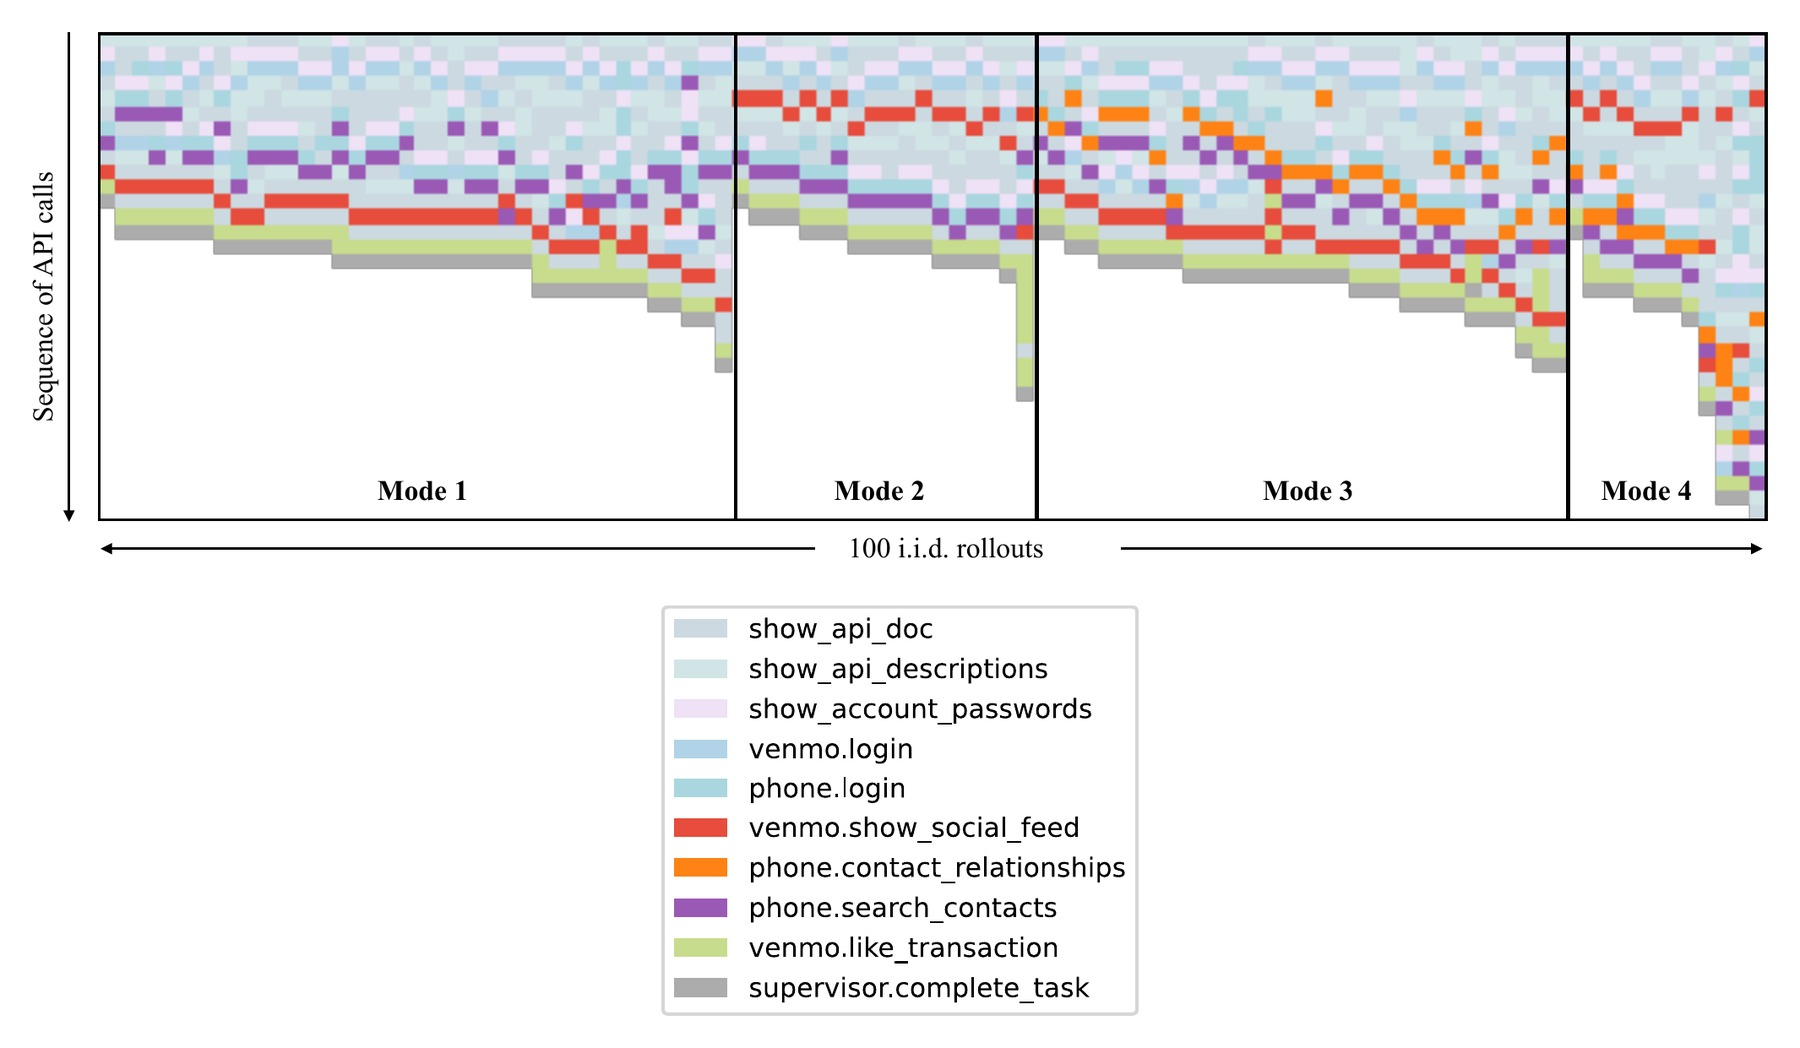
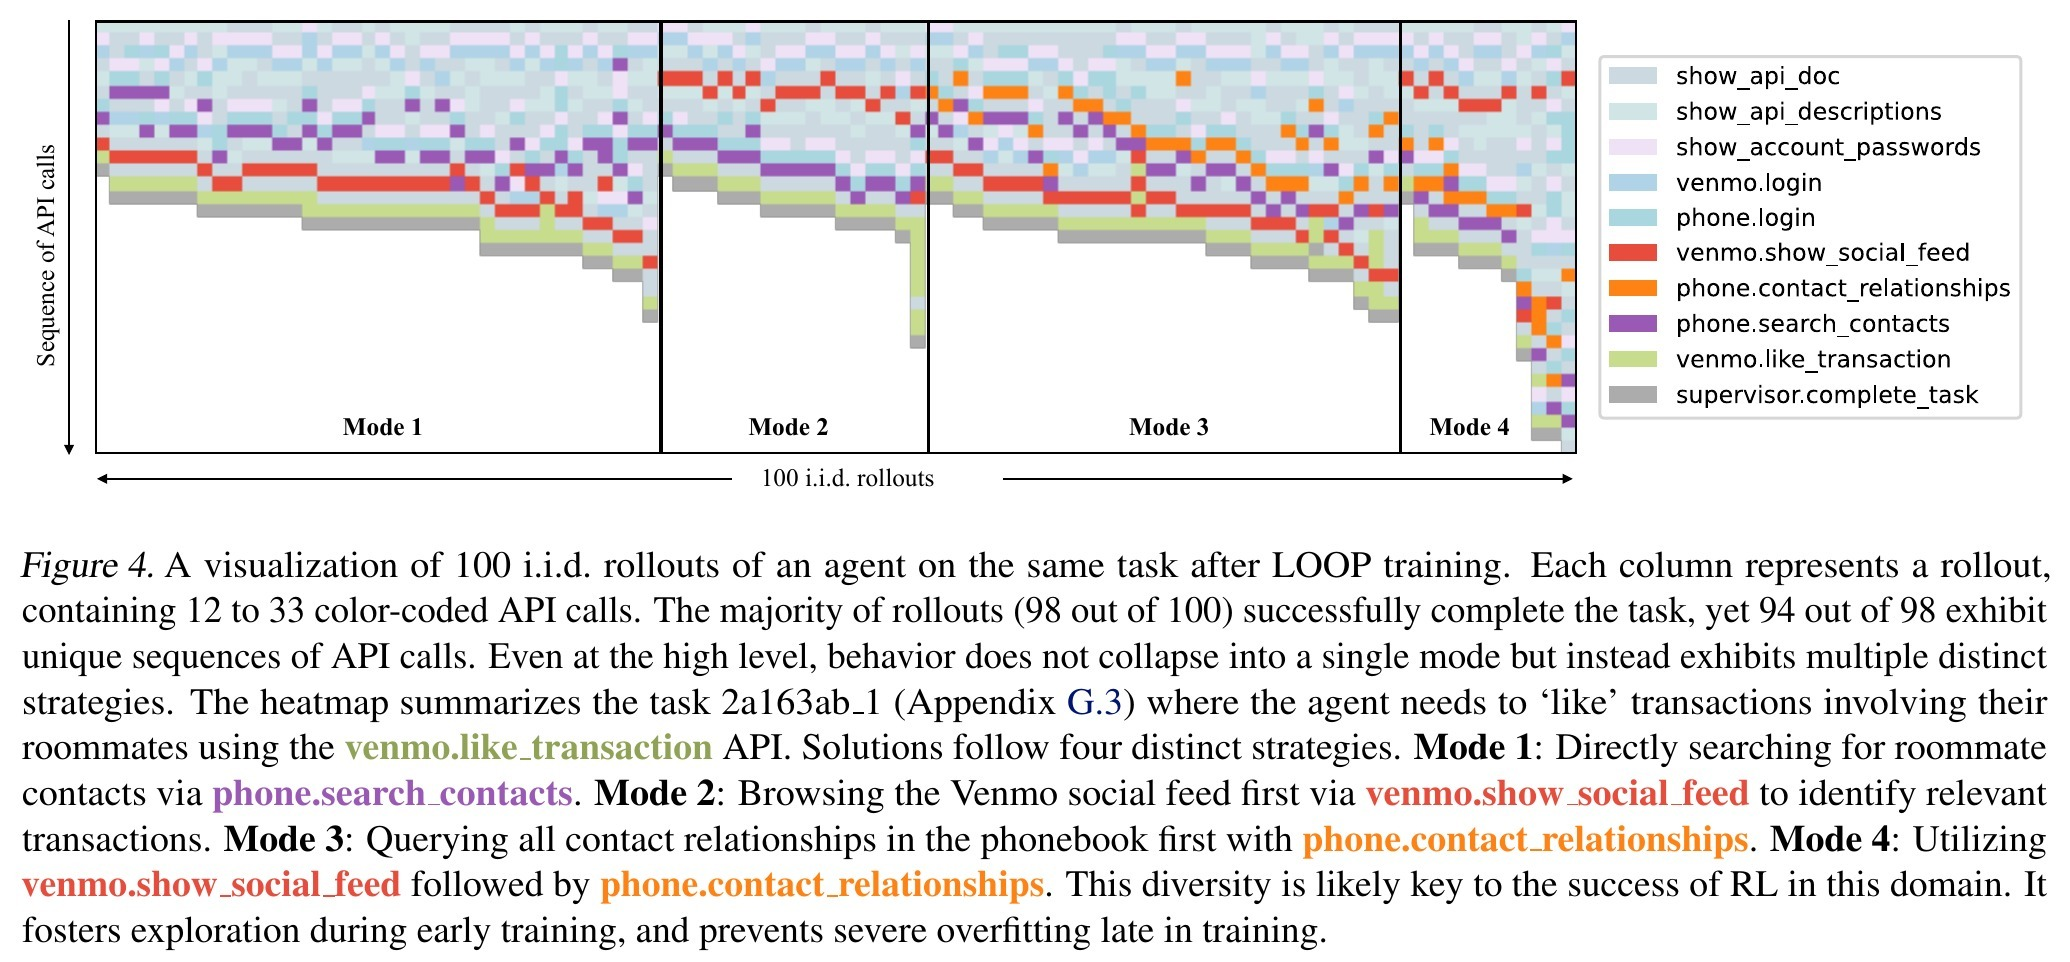
al-folio: figure thumbnails, GIFs/videos on Home at 75% width, DexPBT YouTube clip, LOOP caption on zoom, projects cards, bio edits

diff --git a/assets/css/main.scss b/assets/css/main.scss
@@ -202,11 +202,13 @@ ol.bibliography {
     margin-top: 0.2rem;
   }
 
+  // large GIFs/videos at ~75% of the column, centred (images are not recompressed)
   .pub-media {
     display: flex;
     gap: 12px;
     justify-content: center;
-    margin-top: 0.8rem;
+    width: 75%;
+    margin: 0.8rem auto 0;
 
     img,
     video {
@@ -312,6 +314,9 @@ ol.bibliography {
 @media (max-width: 576px) {
   .os-gallery {
     grid-template-columns: repeat(2, 1fr);
+  }
+  .pub .pub-media {
+    width: 100%;
   }
   .pub .pub-media-2 {
     flex-direction: column;
@@ -453,14 +458,6 @@ html[data-theme="dark"] .publications h2.bibliography {
   margin-bottom: 0.8rem;
 }
 
-// project cards: GitHub icon aligned with the card text
-.projects .card .github-icon {
-  padding-left: 1rem;
-  padding-bottom: 0.6rem;
-}
-.projects .card .row {
-  margin-left: 0 !important;
-}
 
 // a lone gallery item is centred
 .os-gallery.single {
@@ -528,23 +525,26 @@ footer .container {
   gap: 1.25rem;
   align-items: flex-start;
 
+  // fixed frame: every row's text starts at the same left edge; the image keeps its own
+  // aspect ratio inside (no object-fit, so the click-to-zoom copy is never distorted)
   .pub-thumb {
-    flex: 0 0 30%;
-    max-width: 240px;
+    flex: 0 0 240px;
+    height: 160px;
     display: flex;
-    justify-content: flex-start;
+    align-items: center;
+    justify-content: center;
+    background: #fff;
+    border: 1px solid var(--global-divider-color);
+    border-radius: 6px;
+    padding: 4px;
 
     img,
     video {
       display: block;
-      width: auto;
       max-width: 100%;
+      max-height: 100%;
+      width: auto;
       height: auto;
-      max-height: 175px;
-      background: #fff;
-      border: 1px solid var(--global-divider-color);
-      border-radius: 6px;
-      padding: 4px;
       cursor: zoom-in;
     }
   }
@@ -562,6 +562,8 @@ footer .container {
       max-width: 100%;
       flex-basis: auto;
       width: 100%;
+      height: auto;
+      max-height: 260px;
     }
   }
 }
@@ -588,12 +590,18 @@ footer .container {
   margin-bottom: 0.1rem;
 }
 
-// single video/GIF under a publication row (e.g. DeXtreme teaser)
+// single video/GIF under a publication row (e.g. DeXtreme teaser); the poster is also
+// painted as a background so the box is never blank while (or if) the video loads
 .pub .pub-media-1 img,
 .pub .pub-media-1 video {
   width: 100%;
-  max-width: 640px;
   height: auto;
+}
+.pub .pub-media video {
+  aspect-ratio: 16 / 9;
+  background-color: #111 !important;
+  background-size: cover;
+  background-position: center;
 }
 
 // page intro line at body size
@@ -603,10 +611,15 @@ footer .container {
   color: var(--global-text-color-light);
 }
 
-.pubs-more {
-  margin-top: 0.75rem;
-  text-align: right;
-  font-weight: 500;
+// "All publications →" on the right of the Home section header
+.pubs-heading {
+  display: flex;
+  justify-content: space-between;
+  align-items: baseline;
+  .pubs-more {
+    font-size: 1rem;
+    font-weight: 500;
+  }
 }
 
 // footer: social icons row on every page
@@ -634,4 +647,114 @@ footer .footer-social {
 .projects .card .card-text,
 .projects .card .card-title {
   text-align: left !important;
+}
+
+// link row on its own line, never stretched by justification
+.pub .pub-links {
+  text-align: left;
+}
+
+// Home: selected publications
+.home-pubs ol.bibliography li:first-child {
+  padding-top: 0;
+}
+.home-pubs .publications {
+  margin-top: 1rem;
+}
+
+// project cards: GitHub icon pinned to the bottom of every card
+.projects .card .card-body {
+  display: flex;
+  flex-direction: column;
+}
+.projects .card .card-github {
+  margin-top: auto;
+  padding-top: 0.5rem;
+  font-size: 1.2rem;
+}
+// a lone project: horizontal card, image on the left
+@media (min-width: 768px) {
+  .projects .card.card-wide {
+    flex-direction: row;
+    figure {
+      flex: 0 0 36%;
+      margin: 0;
+    }
+    img,
+    .card-img-top {
+      height: 100%;
+      aspect-ratio: auto;
+      border-radius: 0.25rem 0 0 0.25rem;
+    }
+    .card-body {
+      justify-content: center;
+      padding: 1.25rem 1.5rem;
+    }
+  }
+}
+
+// Personal page: air between list items
+.post article ul > li + li {
+  margin-top: 0.5em;
+}
+.cv-timeline li + li {
+  margin-top: 0 !important;
+}
+
+// navbar wordmark: regular weight
+.navbar-brand.title {
+  font-weight: 400 !important;
+}
+
+// CV page: modest download button under the intro
+.cv-download {
+  margin: 0 0 1.5rem;
+  a {
+    display: inline-block;
+    font-size: 0.95rem;
+    font-weight: 500;
+    padding: 0.35rem 0.85rem;
+    border: 1px solid var(--global-theme-color);
+    border-radius: 6px;
+  }
+  a:hover {
+    background: var(--global-theme-color);
+    color: #fff !important;
+    text-decoration: none;
+  }
+}
+.pub .pub-press {
+  color: var(--global-text-color-light);
+}
+
+// wide project card: second paragraph in muted colour
+.projects .card .card-blurb {
+  color: var(--global-text-color-light);
+  margin-top: 0.25rem;
+}
+@media (min-width: 768px) {
+  .projects .card.card-wide figure {
+    flex-basis: 30%;
+  }
+}
+
+// autoplaying YouTube clip under a publication row
+.pub .pub-media iframe.pub-youtube {
+  display: block;
+  width: 100%;
+  aspect-ratio: 16 / 9;
+  border: 0;
+  border-radius: 6px;
+  box-shadow: 0 4px 14px rgba(0, 0, 0, 0.16);
+  background: #111;
+}
+
+// thumbnail showing only the top part of its image (thumb_visible); zoom shows all of it
+.pub .pub-row .pub-thumb .pub-thumb-clip {
+  width: 100%;
+  overflow: hidden;
+  img {
+    width: 100%;
+    max-height: none;
+  }
 }

diff --git a/_pages/about.md b/_pages/about.md
@@ -20,13 +20,12 @@ latest_posts:
 
 <p class="home-quote"><a href="https://www.amazon.com/Artificial-Intelligence-Elaine-Rich/dp/0070522634">Making computers do things at which, at the moment, people are better.</a> <span class="src">(Rich and Knight, 1991)</span></p>
 
-I am a research scientist at Apple, working with [Vladlen Koltun](https://vladlen.info/), currently on RLVR for interactive digital agents.
+I am a research scientist at Apple, currently working with [Vladlen Koltun](https://vladlen.info/) on RLVR post-training for interactive LLM agents.
 
 I received my PhD in Computer Science in 2022 from the University of Southern California.
-I was a part of the Robotic Embedded Systems Lab and was advised by [prof. Gaurav Sukhatme](https://viterbi.usc.edu/directory/faculty/Sukhatme/Gaurav).
-My research focus is deep reinforcement learning and simulation for robotics and embodied AI.
+I was part of the Robotic Embedded Systems Lab, advised by [prof. Gaurav Sukhatme](https://viterbi.usc.edu/directory/faculty/Sukhatme/Gaurav).
 
-During my PhD I worked at NVIDIA on high-throughput simulation and RL for [robots](https://dextreme.org), and at Intel
+During my PhD I worked at NVIDIA on high-throughput simulation and RL for [dexterous robots](https://dextreme.org), and at Intel
 on massively parallel [3D rendering](https://www.megaverse.info) and [high-throughput reinforcement learning](https://www.samplefactory.dev/).
 Before going to academia I spent 8 years in industry, working on software R&D, machine learning, algorithms, 3D graphics, computer vision, and virtual reality.
 
@@ -35,12 +34,9 @@ Before going to academia I spent 8 years in industry, working on software R&D, m
 I study computationally efficient methods for training in simulation using reinforcement learning, as well as problems of sim-to-real transfer.
 Recently I've been working on:
 
-- Highly optimized open-source software for deep reinforcement learning, such as RL algorithms and simulators.
-- Advanced training scenarios such as population-based training and self-play.
+- Highly optimized systems for deep reinforcement learning, such as RL algorithms and simulators.
+- Advanced training scenarios: population-based training and self-play.
+- RL post-training with verifiable tasks for LLM agents.
 - Reinforcement learning in robotics: dexterous manipulation, autonomous driving, drones.
-- RLVR post-training for LLM agents.
 
-In the past I also worked on exploration in RL, memory in embodied agents, and stochastic future prediction.
-
-In the long term, I would like to work on safe AI for scientific discovery, one that would allow us to tackle fundamental scientific challenges
-like human longevity, fusion energy, and minimization of various X-risks.
+In the past I also worked on quality-diversity methods, exploration in RL, memory in embodied agents, and stochastic future prediction.

diff --git a/_projects/9_avatar_sdk.md b/_projects/9_avatar_sdk.md
@@ -1,12 +1,16 @@
 ---
 layout: page
 title: "itSeez3D: Avatar SDK and 3D scanning"
-description: Deep-learning human digitization and mobile 3D scanning (2013-2018).
+description: Deep-learning human digitization and mobile 3D scanning (2013&#8288;–&#8288;2018).
 img: assets/img/projects/avatar_sdk.jpg
+card_img: assets/img/projects/avatar_sdk_card.jpg
+card_blurb: Avatar SDK, a deep-learning pipeline that turns photos into 3D avatars, presented at SIGGRAPH Asia, GDC, and VRX. Before that, mobile 3D scanning software for structured-light sensors, close to professional scanners at a fraction of the cost.
 importance: 9
 category: industry
 permalink: /projects/avatar_sdk/
 ---
+
+## Avatar SDK
 
 At [itSeez3D](https://itseez3d.com/) I worked on a very interesting project called [Avatar SDK](https://avatarsdk.com).
 Avatar SDK is a deep-learning based pipeline for human digitization.
@@ -21,7 +25,7 @@ Check out some of my digital copies automatically generated by our system ([and 
   </div>
 </div>
 
-## Mobile 3D scanner (2013-2017)
+## Mobile 3D scanner (2013–2017)
 
 With itSeez, and later itSeez3D I participated in the development of the [3D scanning software](https://itseez3d.com) for various structured light sensors.
 Our results are close to those of professional 3D scanners, for 10-100x less money!

diff --git a/_pages/opensource.md b/_pages/opensource.md
@@ -39,10 +39,9 @@ description: Libraries and tools I wrote and maintain.
     <span class="os-meta">★ 230 · <a href="https://www.megaverse.info/">website</a> · <a href="https://arxiv.org/abs/2107.08170">paper (ICML 2021)</a></span>
   </div>
   <p>The fastest (at the time of release) embodied simulator for AI research: 1,000,000+ FPS of immersive, physics-based multi-agent experience on a single machine.</p>
-  <div class="os-gallery">
+  <div class="os-gallery cols-2">
     <figure><img src="/assets/img/publication_preview/megaverse_1.gif" alt="Megaverse TowerBuilding" loading="lazy"><figcaption>RL agent building a tower</figcaption></figure>
     <figure><img src="/assets/img/publication_preview/megaverse_2.gif" alt="Megaverse obstacle course" loading="lazy"><figcaption>Random obstacle course</figcaption></figure>
-    <figure><img src="/assets/img/opensource/sample-factory_megaverse.gif" alt="Megaverse environments" loading="lazy"><figcaption>Megaverse-8 environments</figcaption></figure>
   </div>
 </div>
 

diff --git a/_pages/projects.md b/_pages/projects.md
@@ -29,7 +29,9 @@ horizontal: false
     </div>
   </div>
   {% else %}
-  <div class="row row-cols-1 row-cols-md-3">
+  {%- comment -%} a lone project gets one full-width horizontal card {%- endcomment -%}
+  {% if sorted_projects.size == 1 %}{% assign wide = true %}{% else %}{% assign wide = false %}{% endif %}
+  <div class="row row-cols-1 {% if wide %}row-cols-md-1{% else %}row-cols-md-3{% endif %}">
     {% for project in sorted_projects %}
       {% include projects.liquid %}
     {% endfor %}

diff --git a/_pages/cv.md b/_pages/cv.md
@@ -7,7 +7,7 @@ nav_order: 5
 description: Timeline of my education, research, and work.
 ---
 
-<p style="font-size: 1.4em;"><b><a href="/assets/cv.pdf">Download my full CV (PDF)</a></b></p>
+<p class="cv-download"><a href="/assets/cv.pdf"><i class="fa-solid fa-file-pdf"></i> Download full CV (PDF)</a></p>
 
 <ul class="cv-timeline">
   <li><span class="yr">2026</span><span>My son <a href="/assets/leo.jpg">Leo</a> was born ❤</span></li>

diff --git a/_projects/8_4dvideo.md b/_projects/8_4dvideo.md
@@ -3,6 +3,7 @@ layout: page
 title: Capturing volumetric video
 description: '"4D video" grabber and player for Intel RealSense and Google Tango (2017).'
 img: assets/img/opensource/4dvideo_triangulation.gif
+card_img: assets/img/projects/4dvideo_card.png
 importance: 8
 category: research
 github: https://github.com/alex-petrenko/4dvideo
